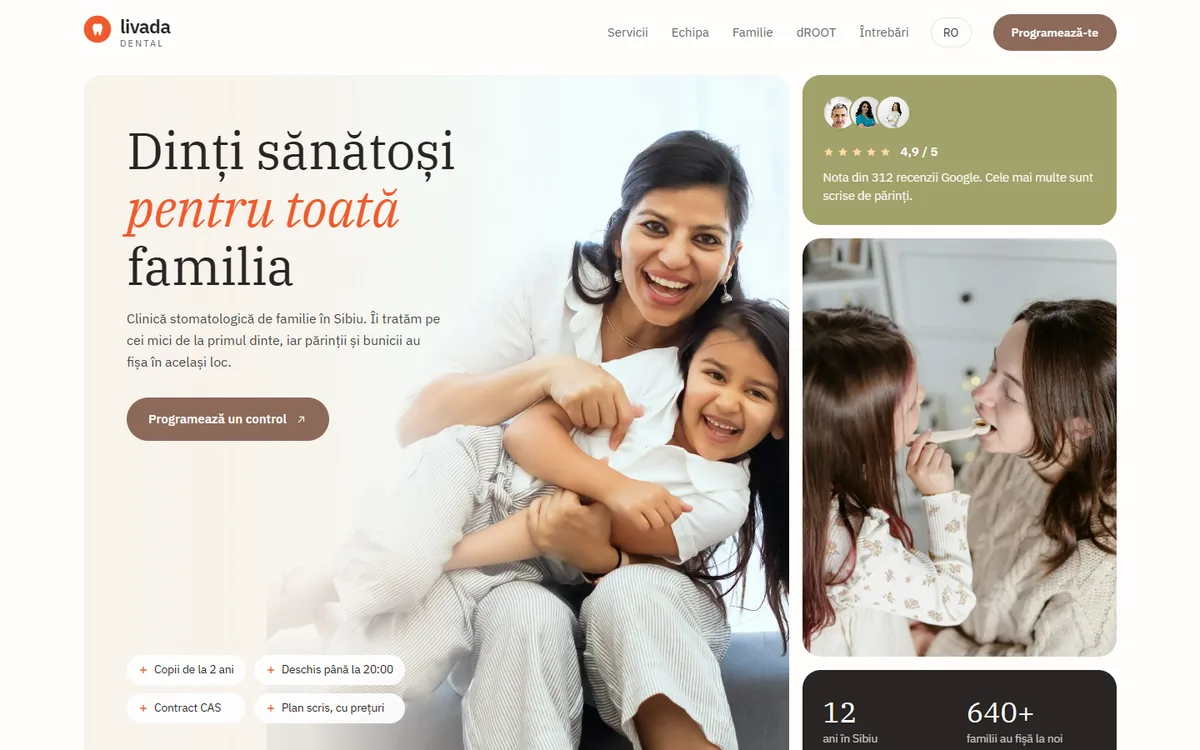
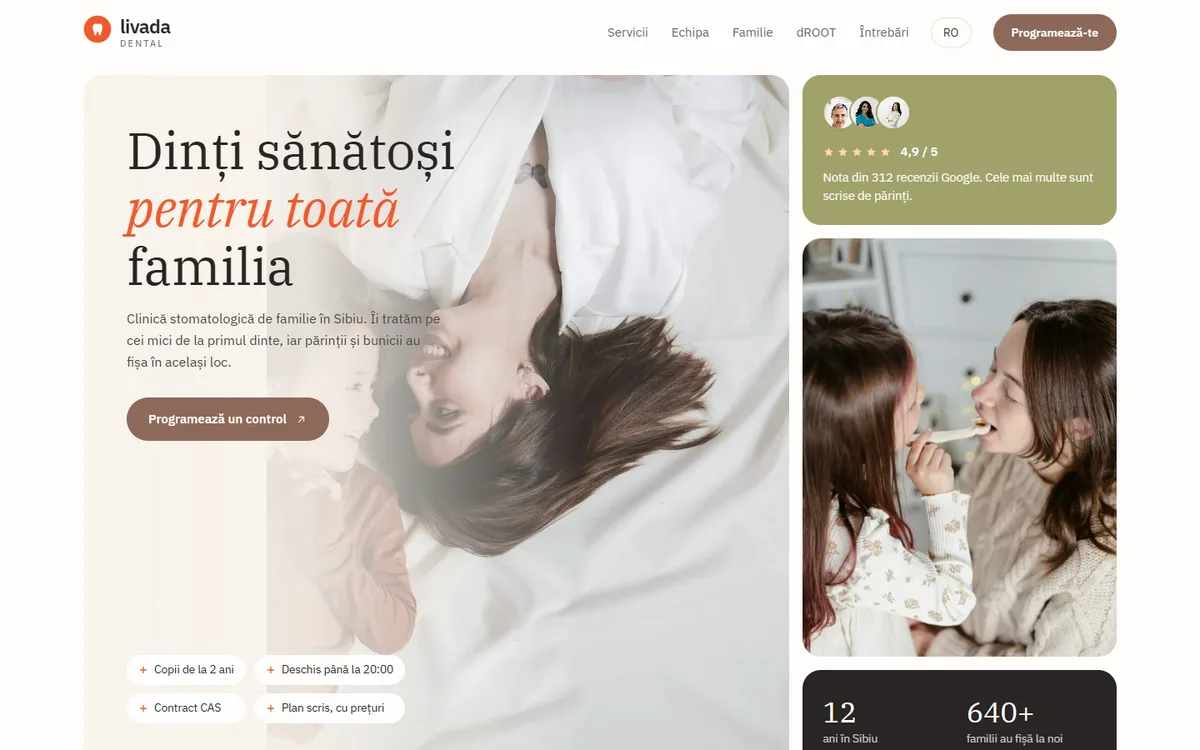
demo-site-4: final hero photo (mother and daughter on white sheets), trial removed; thumbnail updated

Changed region(s): [[0.2467, 0.092, 0.6783, 1.0]]

diff --git a/public/demo-site-4/styles.css b/public/demo-site-4/styles.css
@@ -56,7 +56,7 @@ section{padding:70px 0}
 .hero-grid{display:grid;grid-template-columns:2.25fr 1fr;grid-template-rows:auto auto auto;gap:16px}
 .h-main{grid-row:1/4;position:relative;border-radius:var(--r);overflow:hidden;min-height:600px;display:flex;flex-direction:column;justify-content:space-between;padding:clamp(28px,4vw,52px);background:var(--cream)}
 .h-main{background:#F4F5F7}
-.h-main>img{position:absolute;top:0;right:0;width:74%;height:100%;object-fit:cover;object-position:60% 40%}
+.h-main>img{position:absolute;top:0;right:0;width:74%;height:100%;object-fit:cover;object-position:80% 45%}
 .h-main::before{content:"";position:absolute;inset:0;background:linear-gradient(90deg,rgba(248,243,236,.97) 0%,rgba(248,243,236,.9) 32%,rgba(248,243,236,.35) 55%,rgba(248,243,236,0) 70%);z-index:1}
 .h-copy,.chips{position:relative;z-index:2}
 .h-copy{max-width:440px}
@@ -220,11 +220,6 @@ section{padding:70px 0}
 .fd img{height:17px;width:auto}
 .demo{font-size:13px;color:var(--mut)}
 
-/* hero trial variants (?hero=a|b|c) */
-.h-main[data-hero=a]>img{object-position:15% 30%}
-.h-main[data-hero=b]>img{object-position:80% 45%}
-.h-main[data-hero=c]>img{object-position:100% 30%}
-
 /* responsive */
 @media (max-width:1100px){
   .menu{gap:18px}
@@ -258,7 +253,7 @@ section{padding:70px 0}
   .hero-grid{grid-template-columns:1fr}
   .h-main,.h-photo{grid-column:auto;grid-row:auto}
   .h-main{min-height:780px;justify-content:flex-start;gap:24px}
-  .h-main>img{object-position:62% 35%;top:auto;bottom:0;width:100%;height:40%}
+  .h-main>img{object-position:60% 40%;top:auto;bottom:0;width:100%;height:40%}
   .h-main::before{background:linear-gradient(180deg,rgba(248,243,236,1) 0%,rgba(248,243,236,1) 58%,rgba(248,243,236,0) 66%)}
   .chips{margin-top:0;grid-template-columns:1fr 1fr}
   .chips li{font-size:12.5px;padding:7px 11px}

diff --git a/public/demo-site-4/index.html b/public/demo-site-4/index.html
@@ -33,7 +33,7 @@
   <section class="hero">
     <div class="wrap hero-grid">
       <div class="h-main">
-        <img src="img/hero.webp" alt="Mamă și fiică râzând pe canapea" width="2200" height="1386">
+        <img src="img/hero.webp" alt="Mamă și fiică zâmbind, întinse pe așternut alb" width="2200" height="1457">
         <div class="h-copy">
           <h1>Dinți sănătoși<br><em>pentru toată</em> familia</h1>
           <p>Clinică stomatologică de familie în Sibiu. Îi tratăm pe cei mici de la primul dinte, iar părinții și bunicii au fișa în același loc.</p>

diff --git a/public/demo-site-4/en/index.html b/public/demo-site-4/en/index.html
@@ -33,7 +33,7 @@
   <section class="hero">
     <div class="wrap hero-grid">
       <div class="h-main">
-        <img src="../img/hero.webp" alt="Mother and daughter laughing on a sofa" width="2200" height="1386">
+        <img src="../img/hero.webp" alt="Mother and daughter smiling on white bed sheets" width="2200" height="1457">
         <div class="h-copy">
           <h1>Healthy teeth<br><em>for the whole</em> family</h1>
           <p>A family dental clinic in Sibiu. We see little ones from their first tooth, and parents and grandparents keep their records in the same place.</p>

diff --git a/public/demo-site-4/hu/index.html b/public/demo-site-4/hu/index.html
@@ -33,7 +33,7 @@
   <section class="hero">
     <div class="wrap hero-grid">
       <div class="h-main">
-        <img src="../img/hero.webp" alt="Anya és kislánya nevet a kanapén" width="2200" height="1386">
+        <img src="../img/hero.webp" alt="Anya és kislánya mosolyog a fehér ágyneműn" width="2200" height="1457">
         <div class="h-copy">
           <h1>Egészséges fogak<br><em>az egész</em> családnak</h1>
           <p>Családi fogászati rendelő Nagyszebenben. A kicsiket az első foguktól kezeljük, a szülők és a nagyszülők kartonja is itt van.</p>

diff --git a/public/demo-site-4/script.js b/public/demo-site-4/script.js
@@ -1,11 +1,3 @@
-// Hero photo trial: ?hero=a|b|c swaps the hero image (for choosing a new one live)
-const heroV = new URLSearchParams(location.search).get('hero');
-if (/^[abc]$/.test(heroV || '')) {
-  const hm = document.querySelector('.h-main'), hi = hm.querySelector('img');
-  hi.src = hi.getAttribute('src').replace('hero.webp', 'hero-' + heroV + '.webp');
-  hm.dataset.hero = heroV;
-}
-
 // Mobile menu
 const burger = document.querySelector('.burger'), menu = document.getElementById('menu');
 burger.addEventListener('click', () => {
